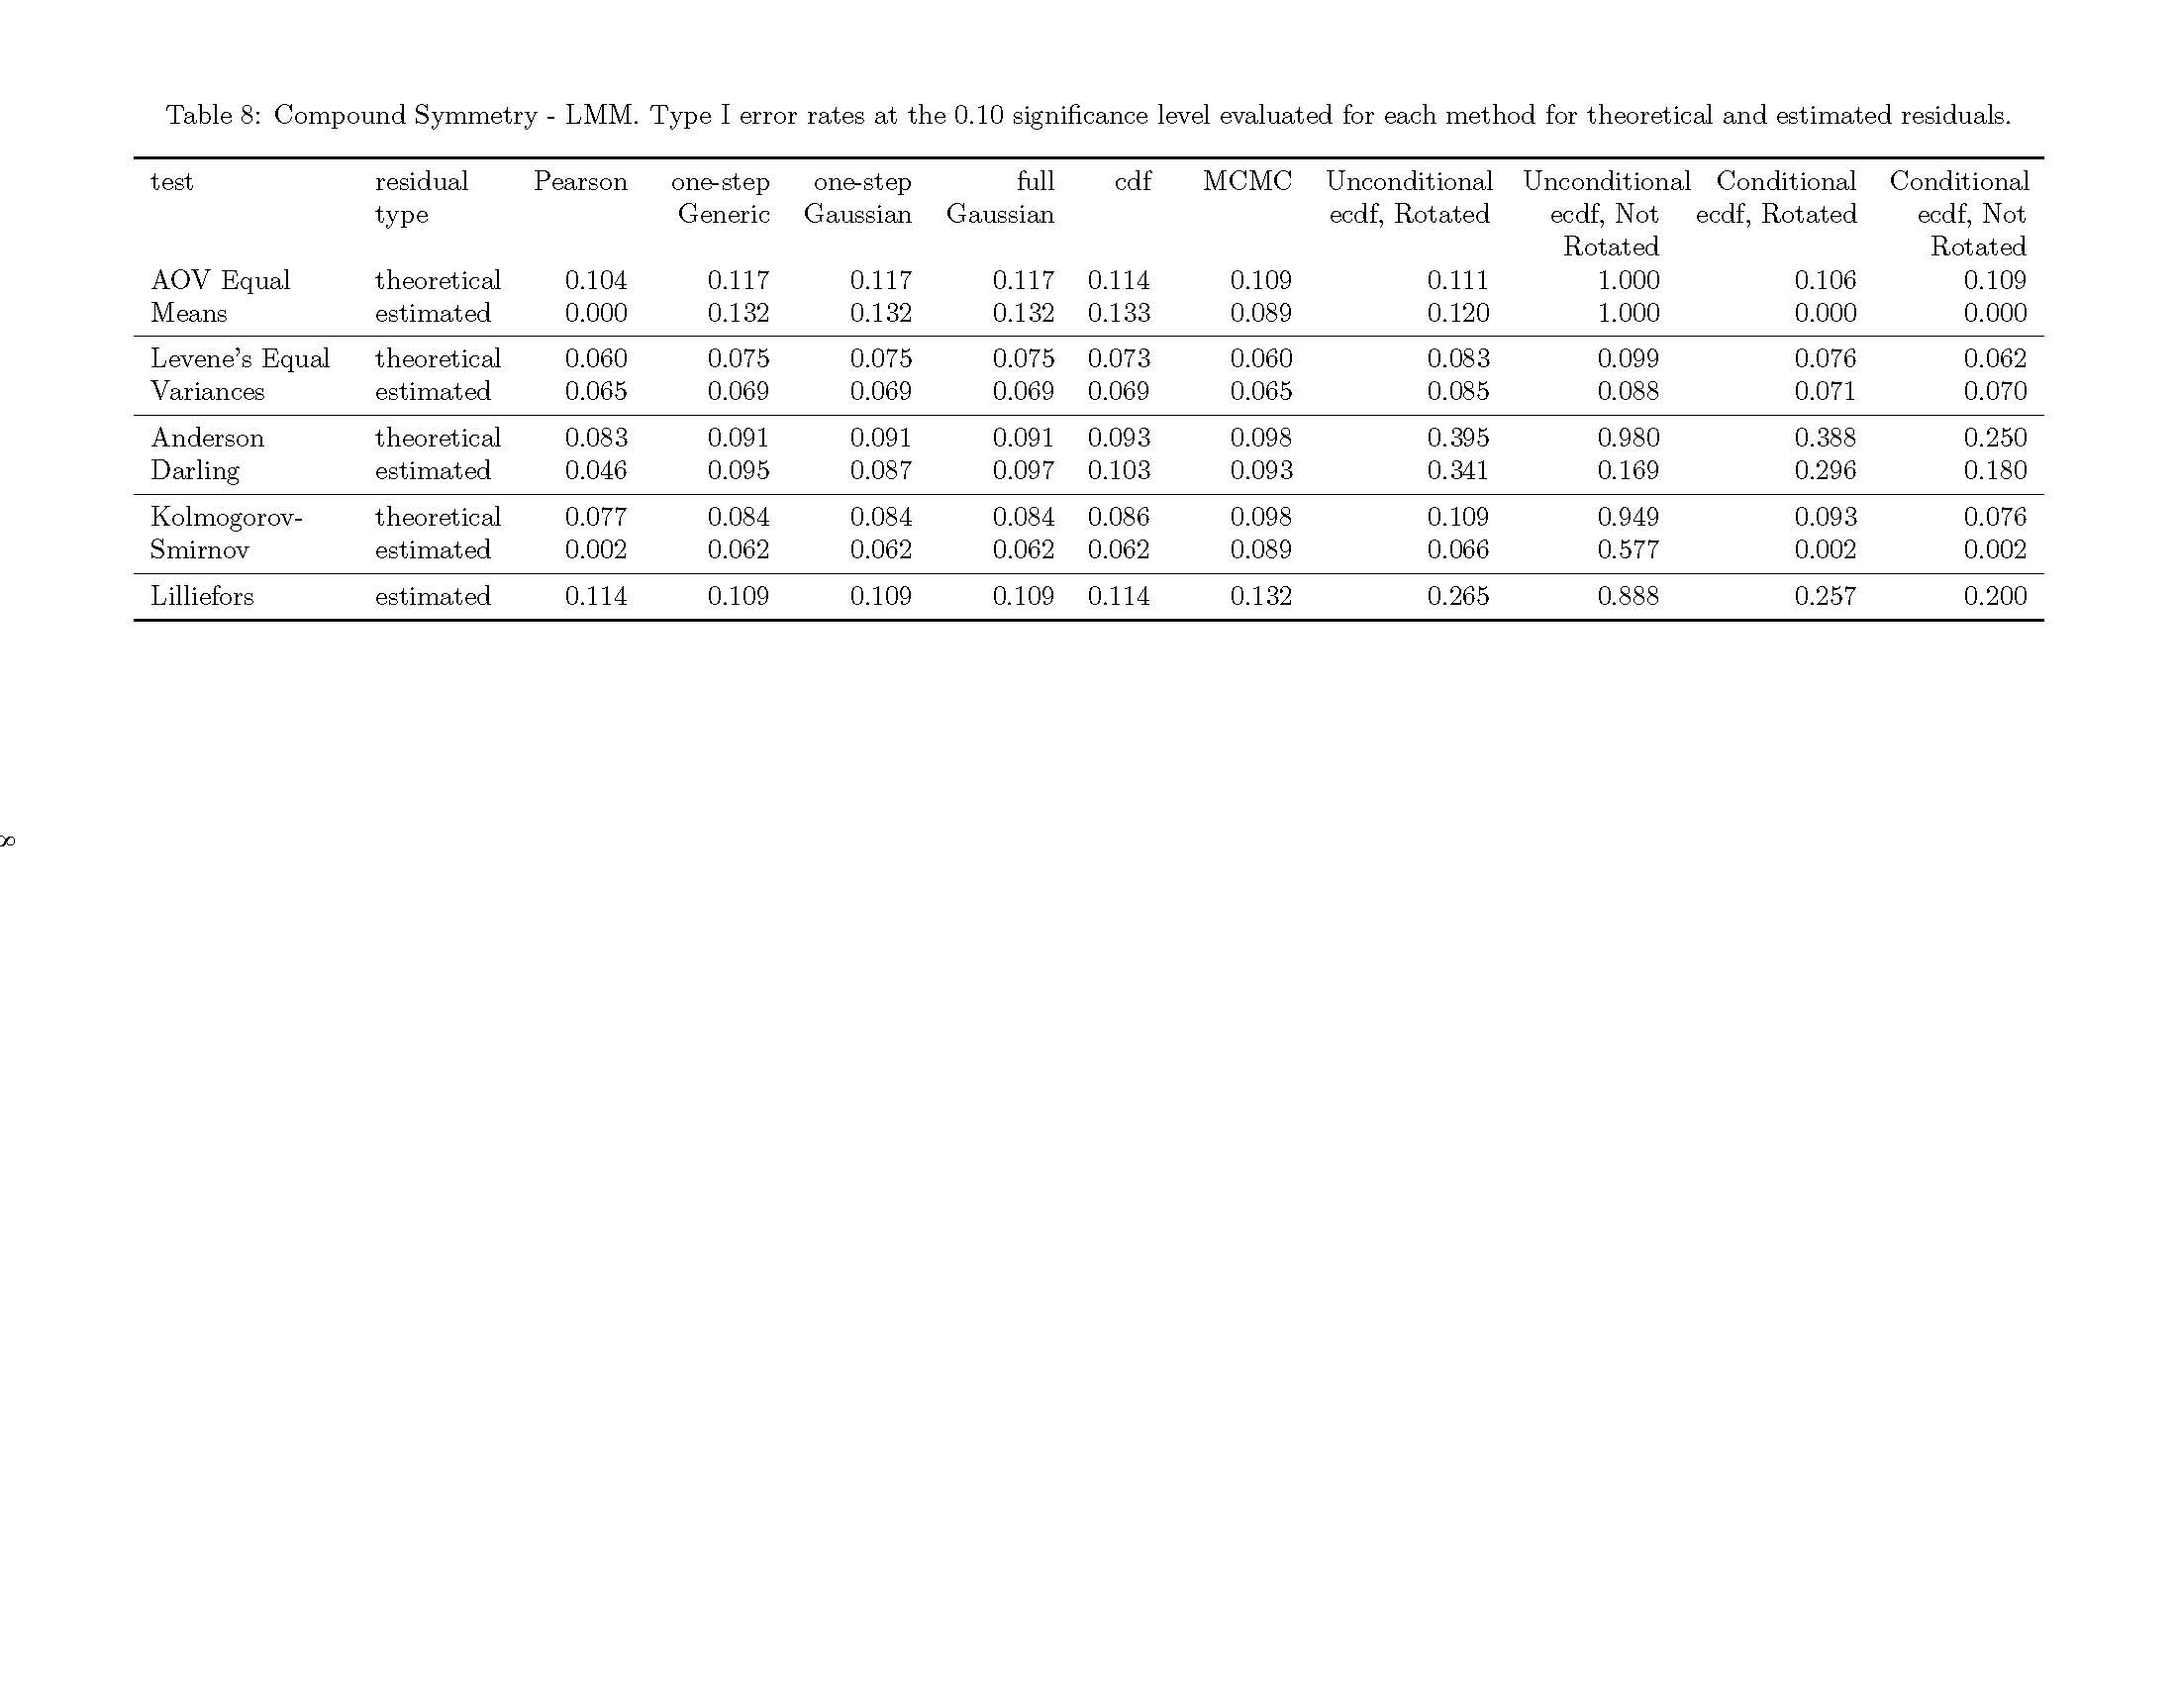
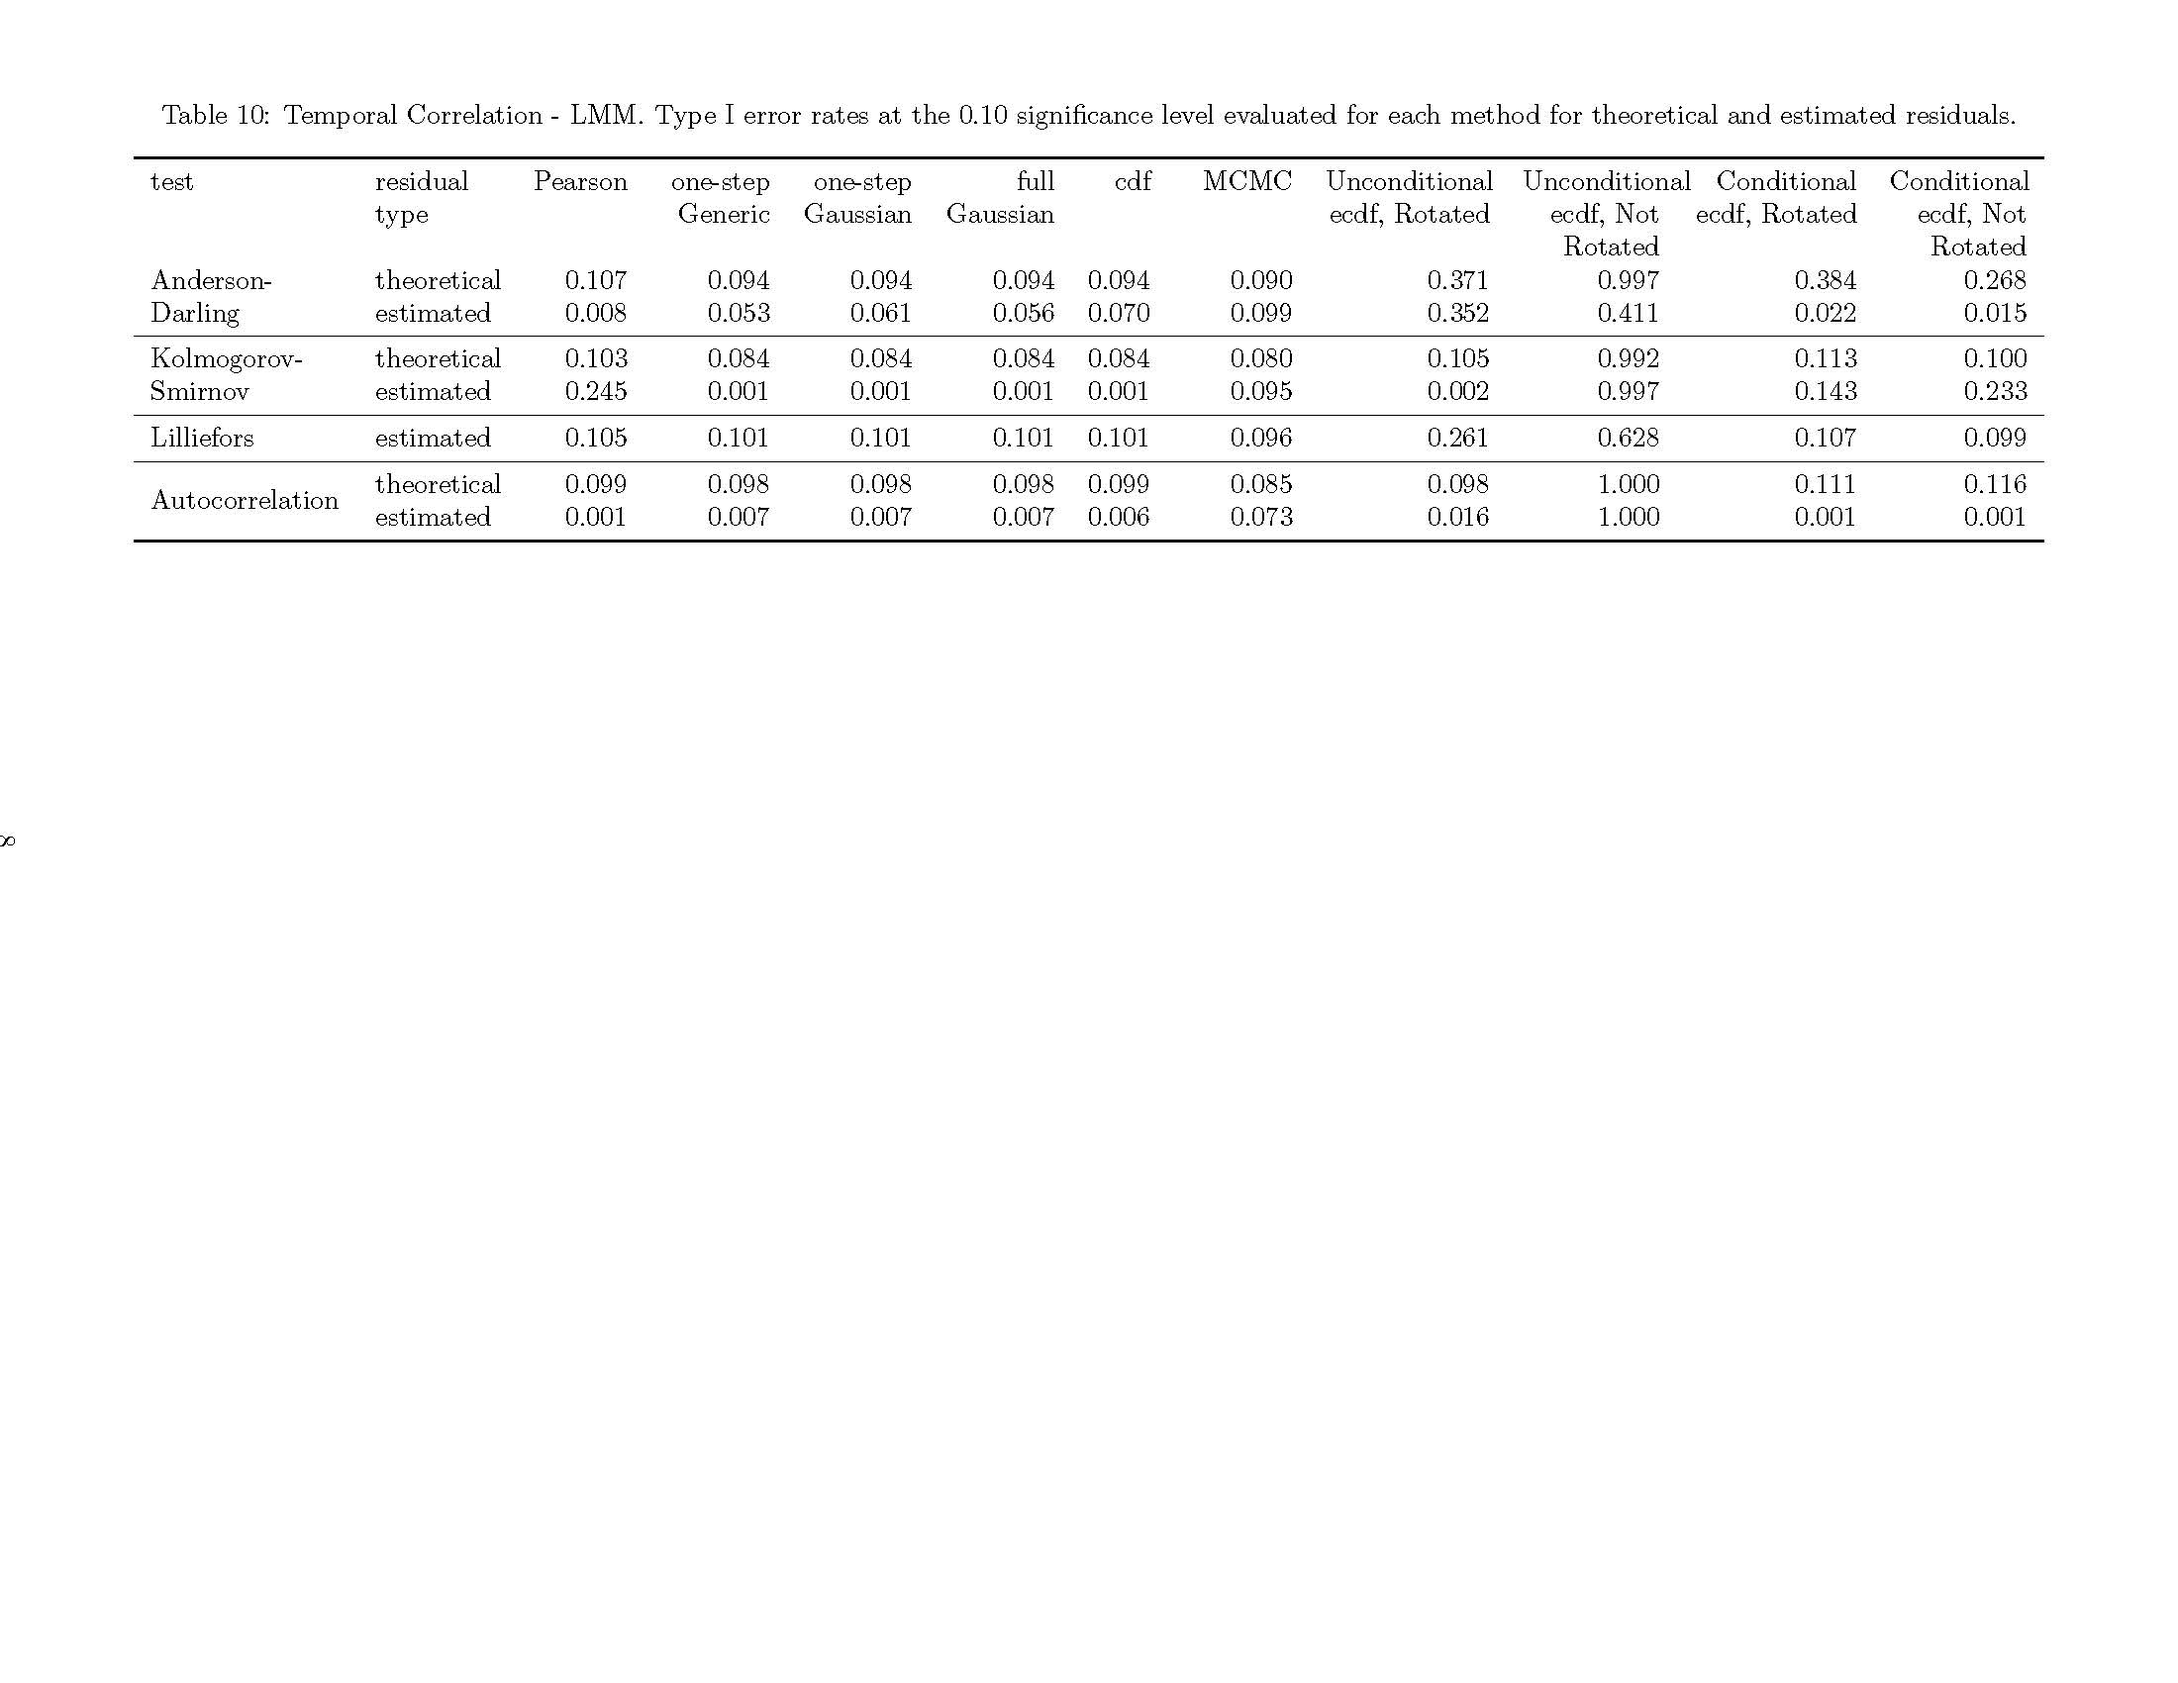
Built site for MixedResidualStudy@0.0.0.9000: 8eac953

diff --git a/articles/TMB-validation-tables.html b/articles/TMB-validation-tables.html
@@ -123,7 +123,7 @@
 
     
     
-<p><img src="figures%2FTMB-validation-tables_Page_01.jpg" style="width:100.0%"><img src="figures%2FTMB-validation-tables_Page_02.jpg" style="width:100.0%"><img src="figures%2FTMB-validation-tables_Page_03.jpg" style="width:100.0%"><img src="figures%2FTMB-validation-tables_Page_04.jpg" style="width:100.0%"><img src="figures%2FTMB-validation-tables_Page_05.jpg" style="width:100.0%"><img src="figures%2FTMB-validation-tables_Page_06.jpg" style="width:100.0%"><img src="figures%2FTMB-validation-tables_Page_07.jpg" style="width:100.0%"><img src="figures%2FTMB-validation-tables_Page_08.jpg" style="width:100.0%"><img src="figures%2FTMB-validation-tables_Page_09.jpg" style="width:100.0%"><img src="figures%2FTMB-validation-tables_Page_10.jpg" style="width:100.0%"><img src="figures%2FTMB-validation-tables_Page_11.jpg" style="width:100.0%"><img src="figures%2FTMB-validation-tables_Page_12.jpg" style="width:100.0%"><img src="figures%2FTMB-validation-tables_Page_13.jpg" style="width:100.0%"><img src="figures%2FTMB-validation-tables_Page_14.jpg" style="width:100.0%"><img src="figures%2FTMB-validation-tables_Page_15.jpg" style="width:100.0%"><img src="figures%2FTMB-validation-tables_Page_16.jpg" style="width:100.0%"><img src="figures%2FTMB-validation-tables_Page_17.jpg" style="width:100.0%"><img src="figures%2FTMB-validation-tables_Page_18.jpg" style="width:100.0%"><img src="figures%2FTMB-validation-tables_Page_19.jpg" style="width:100.0%"><img src="figures%2FTMB-validation-tables_Page_20.jpg" style="width:100.0%"><img src="figures%2FTMB-validation-tables_Page_21.jpg" style="width:100.0%"><img src="figures%2FTMB-validation-tables_Page_22.jpg" style="width:100.0%"><img src="figures%2FTMB-validation-tables_Page_23.jpg" style="width:100.0%"><img src="figures%2FTMB-validation-tables_Page_24.jpg" style="width:100.0%"></p>
+<p><img src="figures%2FTMB-validation-tables_Page_01.jpg" style="width:100.0%"><img src="figures%2FTMB-validation-tables_Page_02.jpg" style="width:100.0%"><img src="figures%2FTMB-validation-tables_Page_03.jpg" style="width:100.0%"><img src="figures%2FTMB-validation-tables_Page_04.jpg" style="width:100.0%"><img src="figures%2FTMB-validation-tables_Page_05.jpg" style="width:100.0%"><img src="figures%2FTMB-validation-tables_Page_06.jpg" style="width:100.0%"><img src="figures%2FTMB-validation-tables_Page_07.jpg" style="width:100.0%"><img src="figures%2FTMB-validation-tables_Page_08.jpg" style="width:100.0%"><img src="figures%2FTMB-validation-tables_Page_09.jpg" style="width:100.0%"><img src="figures%2FTMB-validation-tables_Page_10.jpg" style="width:100.0%"><img src="figures%2FTMB-validation-tables_Page_11.jpg" style="width:100.0%"><img src="figures%2FTMB-validation-tables_Page_12.jpg" style="width:100.0%"><img src="figures%2FTMB-validation-tables_Page_13.jpg" style="width:100.0%"><img src="figures%2FTMB-validation-tables_Page_14.jpg" style="width:100.0%"><img src="figures%2FTMB-validation-tables_Page_15.jpg" style="width:100.0%"><img src="figures%2FTMB-validation-tables_Page_16.jpg" style="width:100.0%"><img src="figures%2FTMB-validation-tables_Page_17.jpg" style="width:100.0%"><img src="figures%2FTMB-validation-tables_Page_18.jpg" style="width:100.0%"><img src="figures%2FTMB-validation-tables_Page_19.jpg" style="width:100.0%"><img src="figures%2FTMB-validation-tables_Page_20.jpg" style="width:100.0%"><img src="figures%2FTMB-validation-tables_Page_21.jpg" style="width:100.0%"><img src="figures%2FTMB-validation-tables_Page_22.jpg" style="width:100.0%"></p>
   </div>
 
   <div class="col-md-3 hidden-xs hidden-sm" id="pkgdown-sidebar">
